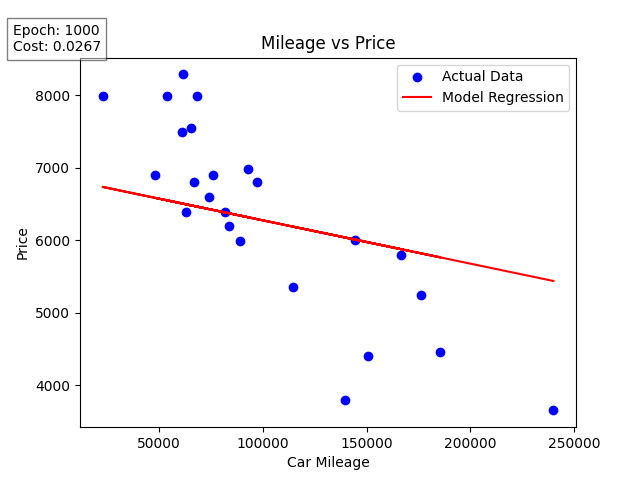
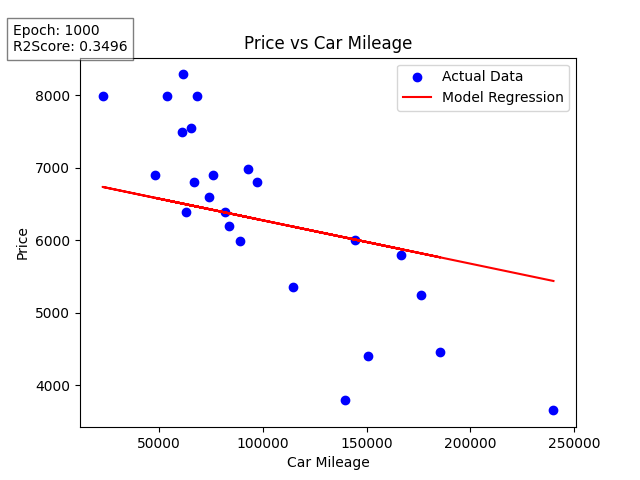
Model precision değeri için cost yerine r2score kullanmaya karar verdim. grafik üzerinde görüntülenecek şekilde güncelledim.

Changed region(s): [[0.375, 0.0625, 0.6562, 0.125], [0.0, 0.0312, 0.2188, 0.125]]

diff --git a/ft_linear_regression.py b/ft_linear_regression.py
@@ -15,6 +15,7 @@ class LinearRegression:
         self.y_pred = []
         self.debugMode = debug
         self.cost = 0.0
+        self.r2score = 0.0
         self.normalize()
         self.train(epochs)
         self.saveParameters()
@@ -31,14 +32,22 @@ class LinearRegression:
         max_x, min_x = max(self.X), min(self.X)
         max_y, min_y = max(self.Y), min(self.Y)
 
-        # Rescale slope
+        # Rescale slope and intercept
         self.theta1 = (max_y - min_y) / (max_x - min_x) * self.theta1
-
-        # Rescale intercept
         self.theta0 = (max_y - min_y) * self.theta0 + min_y - self.theta1 * min_x
 
     def estimatePrice(self, mileage):
         return (mileage * self.theta1) + self.theta0
+
+    def computeR2Score(self):
+        ssr, sst, mean_y = 0, 0, self.Y.mean()
+    
+        for i in range(self.m):
+            ssr += (self.estimatePrice(self.X[i]) - self.Y[i]) ** 2
+            sst += (mean_y - self.Y[i]) ** 2
+        
+        self.r2score = 1 - (ssr / sst)
+        
 
     def computeGradients(self):
         grad0, grad1 = 0.0, 0.0
@@ -56,14 +65,15 @@ class LinearRegression:
             self.theta0 -= self.learning_rate * grad0
             self.theta1 -= self.learning_rate * grad1
             
-            self.cost = sum((self.estimatePrice(self.normalized_x[i]) - self.normalized_y[i])**2 for i in range(self.m)) / (2 * self.m)
+            self.cost = sum((self.estimatePrice(self.normalized_x[i]) - self.normalized_y[i])**2 for i in range(self.m)) / (2 * self.m )
             if self.debugMode and epoch % 200 == 0:
                 print(f"Epoch {epoch}, Cost: {self.cost:.4f}, θ0={self.theta0:.4f}, θ1={self.theta1:.4f}")
 
         self.denormalize_W_and_B()
+        self.computeR2Score()
 
         print("Final params:")
-        print(f"θ0={self.theta0}, θ1={self.theta1}")
+        print(f"R2Score={self.r2score}, θ0={self.theta0}, θ1={self.theta1}")
 
     def saveParameters(self):
         params = {"theta0": self.theta0, "theta1": self.theta1}
@@ -71,8 +81,6 @@ class LinearRegression:
             json.dump(params, f)
     
     def showDataOnGraph(self, epochs):
-        import matplotlib.pyplot as plt
-
         # Scatter plot: Original data
         plt.scatter(self.X.values, self.Y.values, color="blue", marker="o", label="Actual Data")
         
@@ -85,7 +93,7 @@ class LinearRegression:
         plt.xlabel("Car Mileage")
         plt.ylabel("Price")
 
-        textstr = f"Epoch: {epochs}\nCost: {self.cost:.4f}"
+        textstr = f"Epoch: {epochs}\nR2Score: {self.r2score:.4f}"
         plt.gcf().text(0.02, 0.95, textstr, fontsize=10, verticalalignment='top', bbox=dict(facecolor='white', alpha=0.5))
         plt.legend()
         plt.show()
